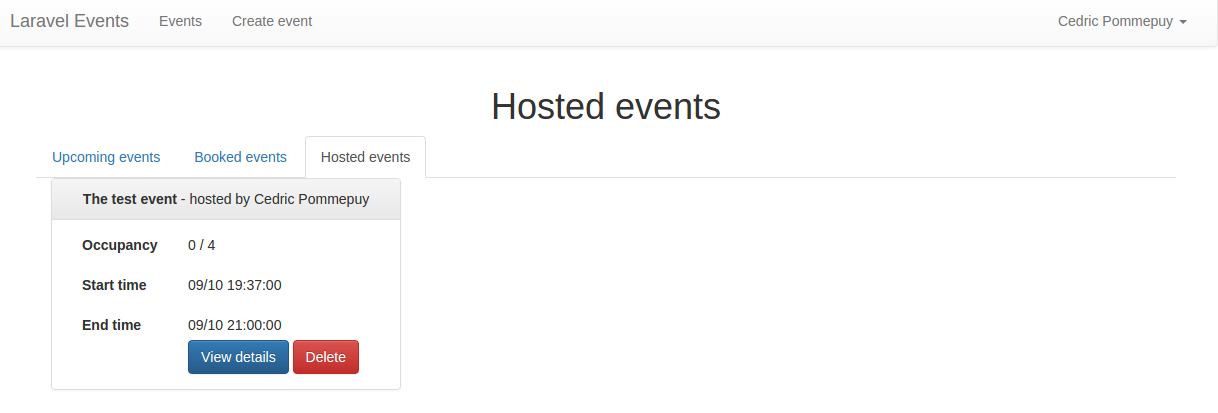
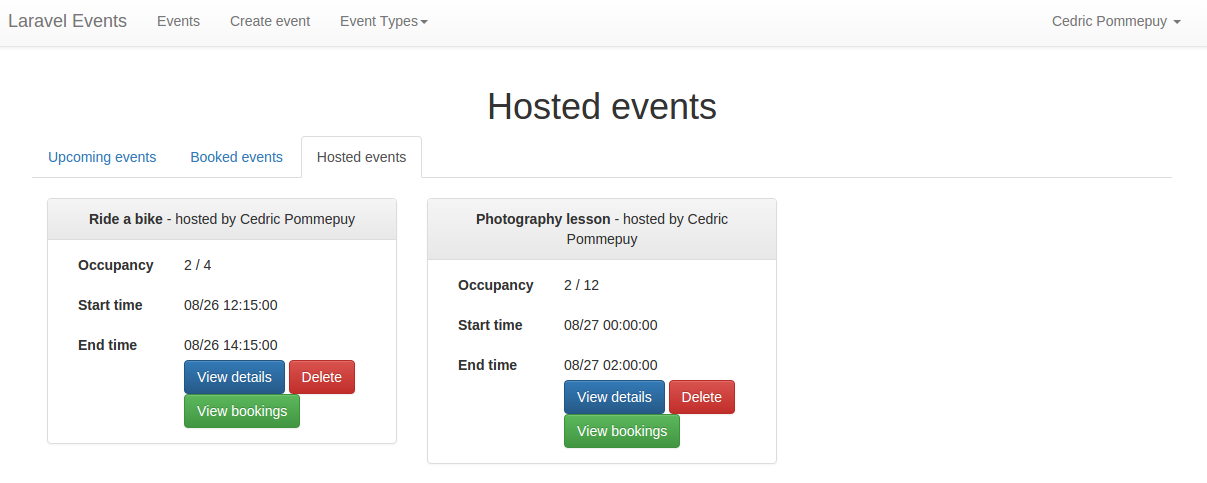
Updated README with kick functionality and new images

diff --git a/README.md b/README.md
@@ -6,18 +6,22 @@ myLaravelEvents is a web-app allowing users to manage and book events.
 The design is not beautiful but functional, I will arrange it soon.
 
 
-### Event list
+### Events list
 
 There are 3 main 'tabs' (for now it's only buttons) :
   - Upcoming events: events you can book, which means not full and events you don't have already booked. 
   - Booked events: events you have booked
-  - Hosted events: events you host.
+  - Hosted events: events you host, possibility to view bookings and kick users.
 
 Only future events are displayed and bookable.
 
 ![alt tag](https://raw.githubusercontent.com/drydry/myLaravelEvents/master/storage/app/screenshots/events-list-upcoming.png)
 ![alt tag](https://raw.githubusercontent.com/drydry/myLaravelEvents/master/storage/app/screenshots/events-list-booked.png)
 ![alt tag](https://raw.githubusercontent.com/drydry/myLaravelEvents/master/storage/app/screenshots/events-list-hosted.png)
+
+### Bookings list
+
+![alt tag](https://raw.githubusercontent.com/drydry/myLaravelEvents/master/storage/app/screenshots/bookings-list.png)
 
 ### Event create form
 
@@ -63,7 +67,8 @@ There is a validation system, based on the server-side:
   - a creator cannot book his event
   - a user cannot book an event where the maximum capacity is reached
   - a user cannot book the same event twice
-  - a user cannot book an event where timeslots are in conflicts (two events in the same time).
+  - a user cannot book an event where timeslots are in conflicts (two events in the same time)
+  - a user cannot book an event if he was kicked from it.
 
 ### Common validation rules:
   - you can't edit/update/delete an entity (Event, EventType, Booking) that doesn't belong to you. For example, the user #1 can't edit an event created by the user #2, and so on.
